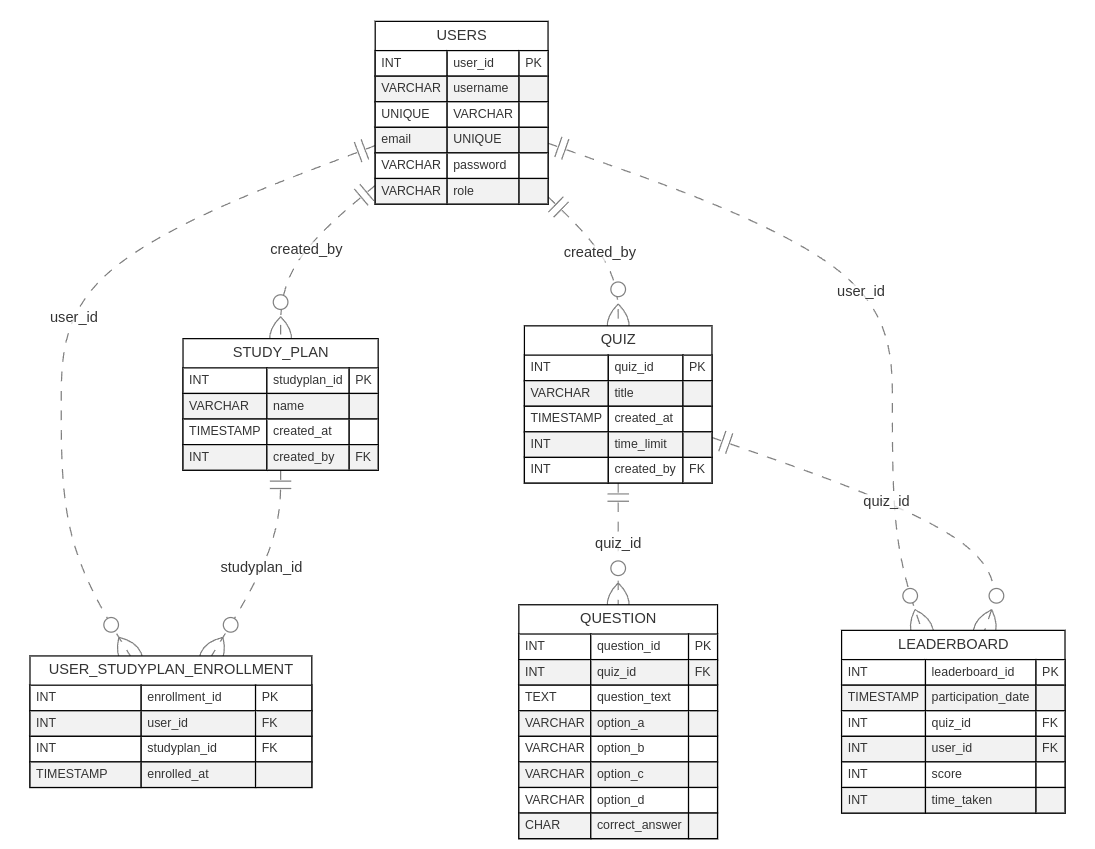
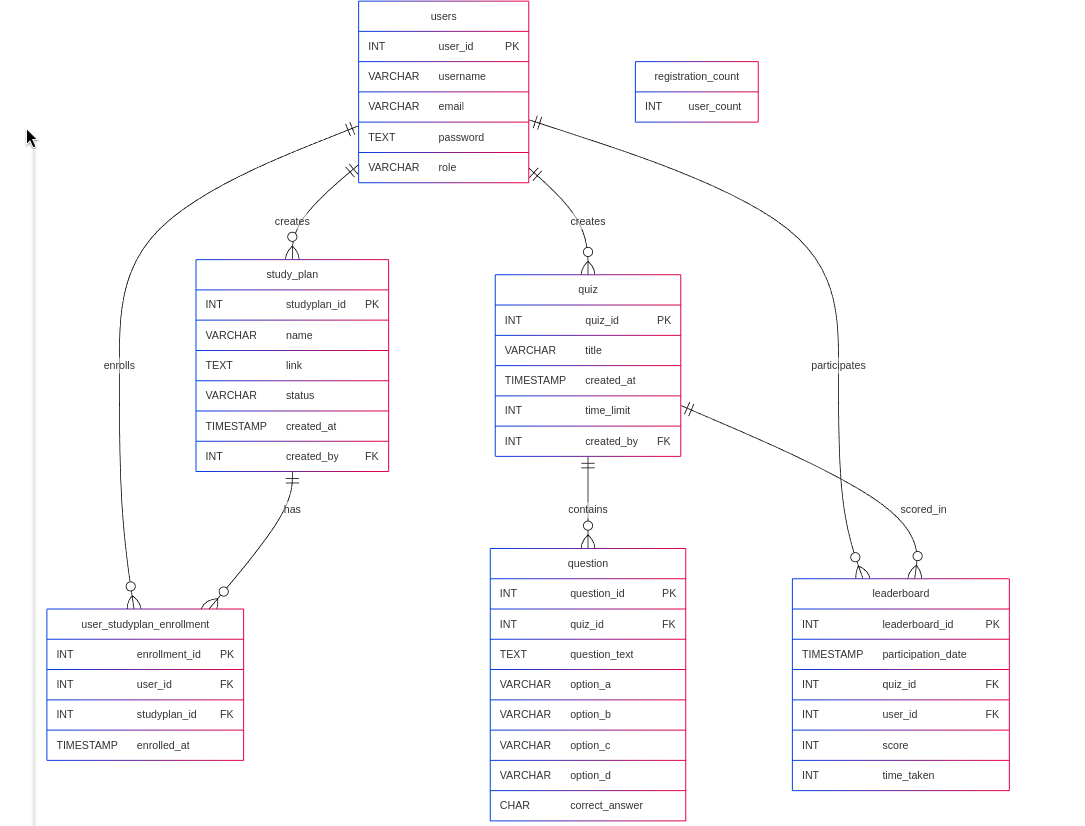
Final Changes added user counts to display

diff --git a/src/main/java/com/quizkar/dao/UsersDAOImpl.java b/src/main/java/com/quizkar/dao/UsersDAOImpl.java
@@ -184,26 +184,86 @@ public class UsersDAOImpl implements UsersDAO{
 	}
 	
 	
+
 	
-	
-	
-	
-	public static void main(String[] args) {
-	    try {
-	    	UsersDAO ud = new UsersDAOImpl();
-	
-	    	
-	    	
-	    	Integer userId = ud.deleteUser(4);
-	
-	    	System.out.println(userId);
-	    	
-	    	
-	    }
-	    catch(SQLException e) {
-	    	e.printStackTrace();
-	    }
+	//Return the total number of users registred in application
+	public Integer getTotalUsers() throws SQLException{
+		
+		String query = "SELECT user_count FROM registration_count";
+		
+		try(Connection connection = DBUtil.getConnection();
+			PreparedStatement preparedStatement = connection.prepareStatement(query))
+		{
+			
+			try(ResultSet resultSet = preparedStatement.executeQuery()){
+				if(resultSet.next()) {
+					return resultSet.getInt("user_count");
+				}
+			}
+		}		
+		return 0;
 	}
+	
+	
+	//Update userRegistration count for every registration returns row affected
+	public Integer updateTotalUser() throws SQLException{
+		
+		String query = "UPDATE registration_count SET user_count = (SELECT user_count FROM registration_count) + 1";
+		Integer affectedRows = 0;
+		
+		try(Connection connection  = DBUtil.getConnection()) {
+			
+			connection.setAutoCommit(false);
+			
+			try( PreparedStatement preparedStatement = connection.prepareStatement(query)){
+				
+				affectedRows = preparedStatement.executeUpdate();
+				connection.commit();
+			}
+			catch(SQLException e) {
+				e.printStackTrace();
+				if(connection != null) {
+					try {
+						connection.rollback();
+					}
+					catch(SQLException rollBackEX) {
+						rollBackEX.printStackTrace();
+					}
+				}
+				throw e;
+			}
+		}
+		return affectedRows;
+	}
+	
+	
+	
+	
+	
+	
+	
+	
+	
+	
+	
+//	
+//	public static void main(String[] args) {
+//	    try {
+//	    	UsersDAO ud = new UsersDAOImpl();
+//	
+//	    	
+//	    	
+//	    	Integer userId = ud.deleteUser(4);
+//	
+//	    	System.out.println(userId);
+//	    	
+//	    	
+//	    }
+//	    catch(SQLException e) {
+//	    	e.printStackTrace();
+//	    }
+//	}
+	
 	
 	
 //	private static void displayUser(Users user)

diff --git a/src/main/java/com/quizkar/controller/AdminDashboard.java b/src/main/java/com/quizkar/controller/AdminDashboard.java
@@ -11,6 +11,8 @@ import com.quizkar.service.QuizService;
 import com.quizkar.service.QuizServiceImpl;
 import com.quizkar.service.StudyPlanService;
 import com.quizkar.service.StudyPlanServiceImpl;
+import com.quizkar.service.UsersService;
+import com.quizkar.service.UsersServiceImpl;
 
 import jakarta.servlet.ServletException;
 import jakarta.servlet.annotation.WebServlet;
@@ -31,11 +33,12 @@ public class AdminDashboard extends HttpServlet {
 		
 		List<StudyPlan> studyPlans = null;
 		List<Quiz> quizzes = null;
+		Integer userCount = 0;
 		
 		try {			
 			StudyPlanService studyPlanService = new StudyPlanServiceImpl();
 			QuizService quizService = new QuizServiceImpl();
-			
+			UsersService usersService = new UsersServiceImpl();
 			
 			HttpSession session = request.getSession();
 			if(session == null) {
@@ -56,6 +59,9 @@ public class AdminDashboard extends HttpServlet {
 				//get quizes created by admin
 				quizzes = quizService.getQuizCreatedByAdmin(userId);
 				request.setAttribute("quizzes", quizzes);
+				
+				userCount = usersService.getTotalUsers();
+				request.setAttribute("userCount", userCount);
 				
 			}
 			

diff --git a/src/main/java/com/quizkar/service/UsersServiceImpl.java b/src/main/java/com/quizkar/service/UsersServiceImpl.java
@@ -44,4 +44,20 @@ public class UsersServiceImpl implements UsersService {
 		UsersDAO usersDAO = new UsersDAOImpl();
 		return usersDAO.deleteUser(userId);
 	}
+	
+	
+	
+	//Return the total number of users registred in application
+	public Integer getTotalUsers() throws SQLException{
+		UsersDAO usersDAO = new UsersDAOImpl();
+		return usersDAO.getTotalUsers();
+	}
+	
+	
+	
+	//Update userRegistration count for every registration returns row affected
+	public Integer updateTotalUser() throws SQLException{
+		UsersDAO usersDAO = new UsersDAOImpl();
+		return usersDAO.updateTotalUser();
+	}
 }

diff --git a/src/main/java/com/quizkar/service/UsersService.java b/src/main/java/com/quizkar/service/UsersService.java
@@ -21,4 +21,12 @@ public interface UsersService {
 	
 	//Delete user from db returns AffectedRow
 	public abstract Integer deleteUser(Integer userId) throws SQLException;
+	
+	
+	//Return the total number of users registred in application
+	public abstract Integer getTotalUsers() throws SQLException;
+	
+	
+	//Update userRegistration count for every registration returns row affected
+	public abstract Integer updateTotalUser() throws SQLException;
 }

diff --git a/src/main/java/com/quizkar/dao/UsersDAO.java b/src/main/java/com/quizkar/dao/UsersDAO.java
@@ -23,4 +23,11 @@ public interface UsersDAO {
 	
 	//Delete user from db returns AffectedRow
 	public abstract Integer deleteUser(Integer userId) throws SQLException;
+	
+	
+	//Return the total number of users registred in application
+	public abstract Integer getTotalUsers() throws SQLException;
+	
+	//Update userRegistration count for every registration returns row affected
+	public abstract Integer updateTotalUser() throws SQLException;
 }

diff --git a/src/main/java/com/quizkar/controller/RegisterServlet.java b/src/main/java/com/quizkar/controller/RegisterServlet.java
@@ -51,6 +51,15 @@ public class RegisterServlet extends HttpServlet {
 			if( userId != null ) {
 				//create session object that stores User's Object all info excluding password
 				//redirect to login page
+				
+				//Update the user count in database
+				try {
+					usersService.updateTotalUser();
+				}
+				catch(Exception e) {
+					e.printStackTrace();
+				}
+				
 				response.sendRedirect("login?registered=true");
 
 			}
